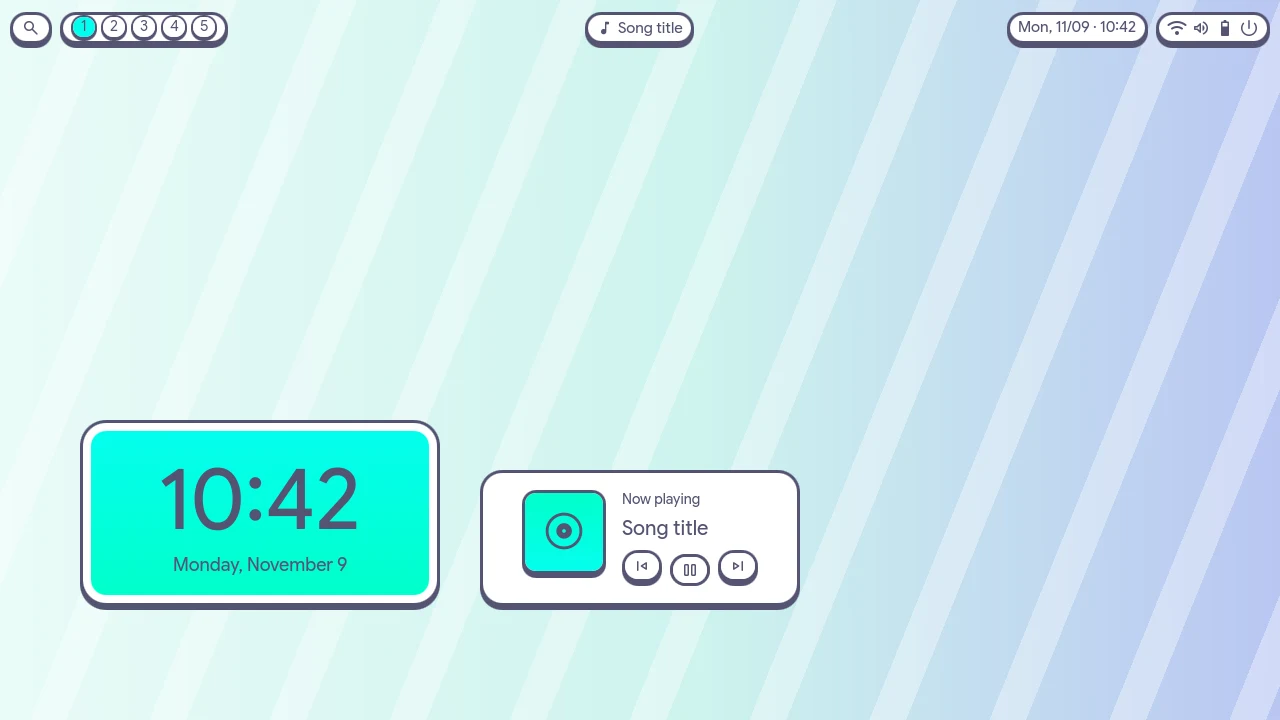
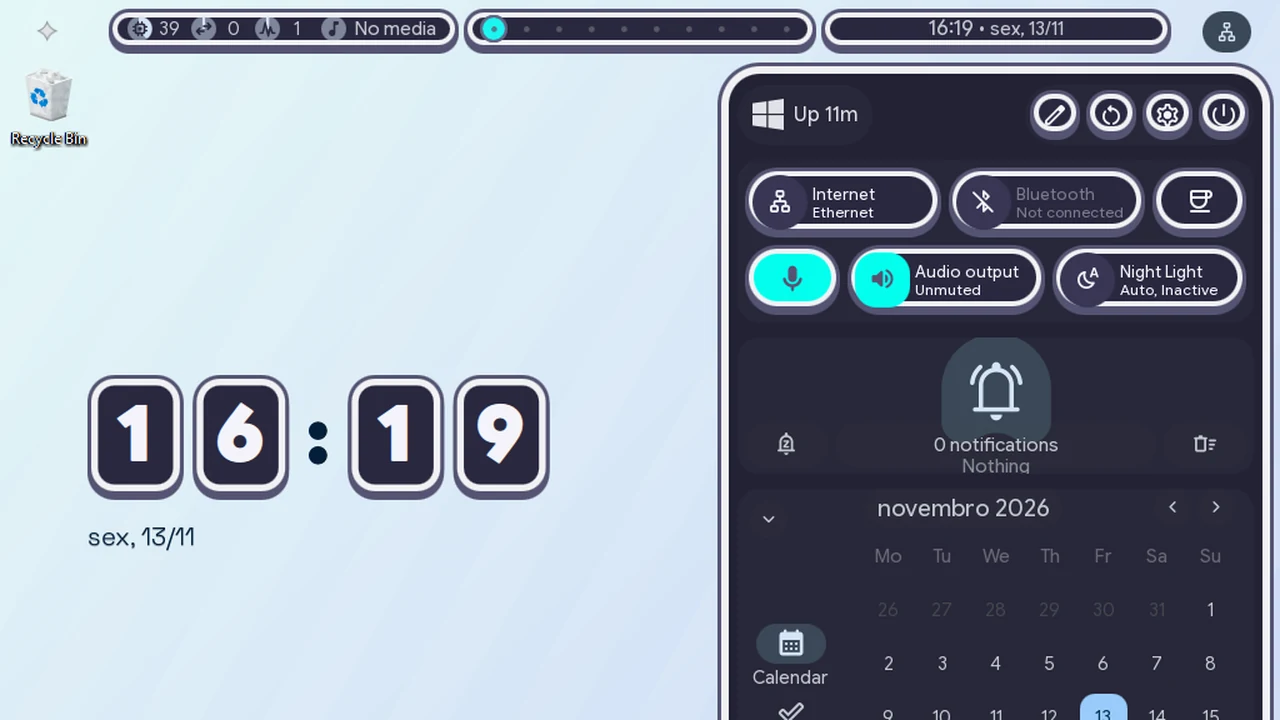
Take the preset save fix and a real screenshot for the SekaiPop card in 26.1.2.0

diff --git a/docs/HANDOFF.md b/docs/HANDOFF.md
@@ -213,6 +213,8 @@ A 26.1.1.0 vai sair assinada pela SignPath Foundation e com claro/escuro automá
 - **Estilo SekaiPop** (4º estilo, ii `fa94c004e`..`b0357beaf`): blocos com contorno, anel e sombra dura; barra, painel direito como celular que sobe com quique, toggles e sliders em bloco, popups, busca e Spotlight, dock, relógio do desktop em teclas, pôster de calendário no bloqueio, quatro transições de wallpaper (anel, íris, estrela, blocos) e o popup de notificação como o topo do celular saindo de baixo. Temas com nomes de cor (mint, indigo, lime, rose, amber, violet, mono, wallpaper). Setup: cartão e opção do estilo; créditos ao SekaiPop de Blapples no README e no THIRD-PARTY.
 - **Transição Colônias** (ii `b7f1fa141`), escrita do zero.
 - **Setup sem PowerShell** (PR #57): o pacote do winget (App Installer) é instalado e removido pelo `PackageManager` do WinRT e a política de execução é lida e gravada direto no registro. A desinstalação também remove o winget quando o setup não instalou ferramentas de terminal.
+- Presets (dots-hyprland #1, rubenmarcus, + `3a3dd4f99`): salvar espera a config ser relida e cada preset é gravado mesmo com texto igual ao anterior.
+- Cartão do SekaiPop no setup: print real da win10 com um wallpaper gerado (gradiente com listras), no lugar do render provisório.
 - Cargo em 26.1.2.
 
 ## 1.0.0 "Jazz-Handed Octopus" (2026-10-12)
